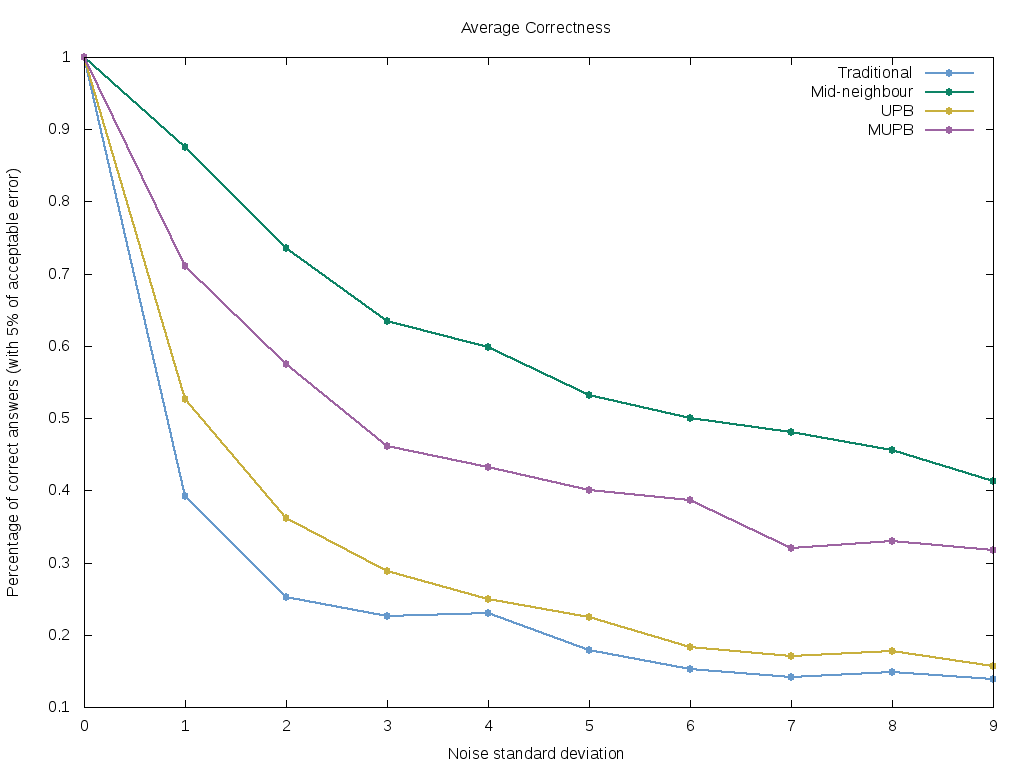
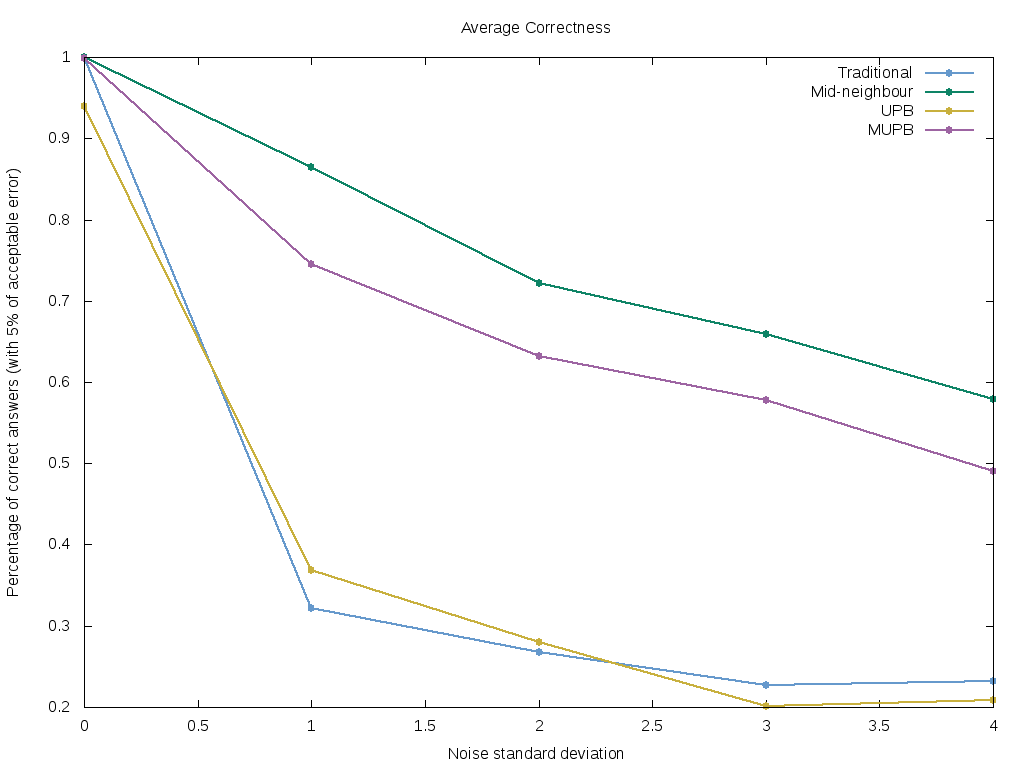
Implemented new MUPB

diff --git a/bisection/bisection.py b/bisection/bisection.py
@@ -224,13 +224,6 @@ def upb (v, pc, pmf = None, limit = None):
            median is not third_qt) and limit > 0):
         evaluations += 3
 
-        #print ("-------------\nIterating...")
-        #print ("Initial pmf: ", pmf)
-        #print ("v: ", v)
-        #print ("1st qt: ", first_qt)
-        #print ("median, alpha: ", median, ", ", alpha)
-        #print ("3rd qt: ", third_qt)
-
         direction = select_side (v, median)
         if (direction is 0):
             if (median - first_qt > third_qt - median):
@@ -255,69 +248,53 @@ def upb (v, pc, pmf = None, limit = None):
     evaluations += 3
     return [v[median], evaluations]
 
-def mupb (v, pc, pmf = [], limit = None):
+def mupb (v, pc, pmf = None, limit = None):
     """ Mid-neighbour U-Curve Probabilistic Bisection 
     This function receives a vector, that describes approximately u-shaped curve, as
     argument and return the minimum element of this vector """
     n = len (v)
-    # probability mass function
-    # Suppose that the minimum element of v is in v[x*], then, we say that 
-    #       P(x* = i) = pmf[i]
-    if (pmf == []):
-        pmf = [1.0 / n] * n
+
+    # Probability Mass Function
+    if (pmf is None):
+        pmf = PMF (n)
     
     evaluations = 0
-
-    eights = find_eighths (pmf)
-    median = eights[4][0]
-    alpha = eights[4][1]
-    first_qt = eights [2][0]
-    third_qt = eights [6][0]
-    
     if (limit is None):
+        limit = int_log2 (n)
         limit = n
+
+    first_qt = pmf.get_quarter (1)
+    median = pmf.get_quarter (2)
+    third_qt = pmf.get_quarter (3)
     while (first_qt is not median and \
            median is not third_qt and limit > 0):
         evaluations += 3
 
        #print ("-------------\nIterating...")
-       #print ("Initial pmf: ", pmf)
-       #print ("v: ", v)
-        
-       #print ("1st qt: ", first_qt)
-       #print ("median, alpha: ", median, ", ", alpha)
-       #print ("3rd qt: ", third_qt)
-        
         d = float (v[third_qt] - v[first_qt])
         if (abs (d) < 1e-8):
             d = 0
         else:
             d = d / abs (d)
-        
-       #print ("direction: ", d)
+       # print ("direction: ", d)
 
         if (d is 0):
             if (v[median] < v[first_qt]):
-                update_pmf (pmf, pc, first_qt, eights [2][1], 1)
-                update_pmf (pmf, pc, third_qt, eights [6][1], -1)
+                pmf.update (pc, first_qt, pmf.get_quarter_mass (1), 1)
+                if (pmf.get_quarter (1) != pmf.get_quarter (2)):
+                    pmf.update (pc, third_qt, pmf.get_quarter_mass (3), -1)
             else:
                 [result, child_eval] = split_mupb (v, pc, pmf, median, limit)
                 return [result, evaluations + child_eval]
         else:
             if (d == 1.0):
-                update_pmf (pmf, pc, third_qt, eights [6][1], -1)
+                pmf.update (pc, third_qt, pmf.get_quarter_mass (3), -1)
             else:
-                update_pmf (pmf, pc, first_qt, eights [2][1], 1)
+                pmf.update (pc, first_qt, pmf.get_quarter_mass (1), 1)
         
-       #print ("New pmf: ", pmf)
-       #print ("pmf sum:", sum(pmf))
-        
-        eights = find_eighths (pmf)
-        median = eights[4][0]
-        alpha = eights[4][1]
-        first_qt = eights [2][0]
-        third_qt = eights [6][0]
-
+        first_qt = pmf.get_quarter (1)
+        median = pmf.get_quarter (2)
+        third_qt = pmf.get_quarter (3)
         limit -= 1
 
     evaluations += 3
@@ -371,13 +348,26 @@ def translate_blocks (blocks):
 def split_mupb (v, pc, pmf, i, limit):
     """ Splits the orginal problem v with pmf in two parts, from 0 to i - 1 and from
     i + 1 to len (v) """
-    v1 = v[0:i]
-    v2 = v[i + 1:len (v)]
+    pmf.split_in (pmf.get_quarter (2), pmf.get_median_block ())
+
+    # print ("Splitting")
+
+    blocks = pmf.get_blocks ()
+    half_size = len (blocks) // 2
+    # print ("Dividing: ")
+    blocks1 = blocks[0:half_size]
+    blocks2 = blocks[half_size:len (blocks)]
+    translate_blocks (blocks1)
+    translate_blocks (blocks2)
     
-    pmf1 = pmf[0:i]
-    pmf2 = pmf[i + 1:len (v)]
-    normalize_pmf (pmf1)
-    normalize_pmf (pmf2)
+    n1 = sum ((block.end - block.start) for block in blocks1)
+    n2 = len (v) - n1
+    v1 = v[0:n1]
+    v2 = v[n1:len (v)]
+    # print ("n = ", len (v), ", |blocks| = ", len (blocks), ", half_size = ", half_size, ", n1 = ", n1, ", n2 = ", n2)
+    
+    pmf1 = PMF (n1, blocks1)
+    pmf2 = PMF (n2, blocks2)
     
     sol1 = None
     eval1 = 0

diff --git a/bisection/pmf.py b/bisection/pmf.py
@@ -62,9 +62,9 @@ class PMF:
         Where alpha is the accumulate density of the mid element """
         qc = 1 - pc
 
-        # print ("\n\n")
-        # print ("preferred side: ", direction)
-        # print ("Quarters: ", self.__quarters[1][0], ", ", self.__quarters[2][0], ", ", self.__quarters[3][0])
+        print ("\n\n")
+        print ("preferred side: ", direction)
+        print ("Quarters: ", self.__quarters[1][0], ", ", self.__quarters[2][0], ", ", self.__quarters[3][0])
 
         if (direction < 0):
             # what does this mean now? 

diff --git a/bisection/test_bisection.py b/bisection/test_bisection.py
@@ -87,7 +87,7 @@ time_file.close ()
 # Correctness
 #
 #
-max_input_size = 100
+max_input_size = 1000
 test_size = 1000.0
 correctness_file = open ('correctness_data.txt', 'w')
 sigma = 0 # input noise parameter
